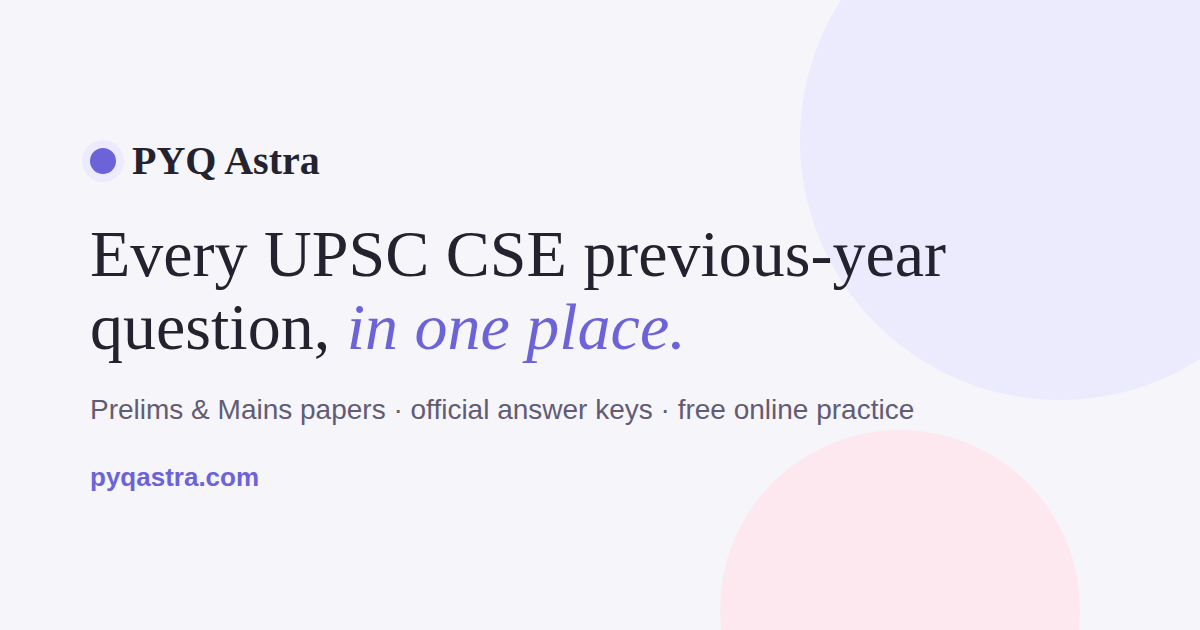
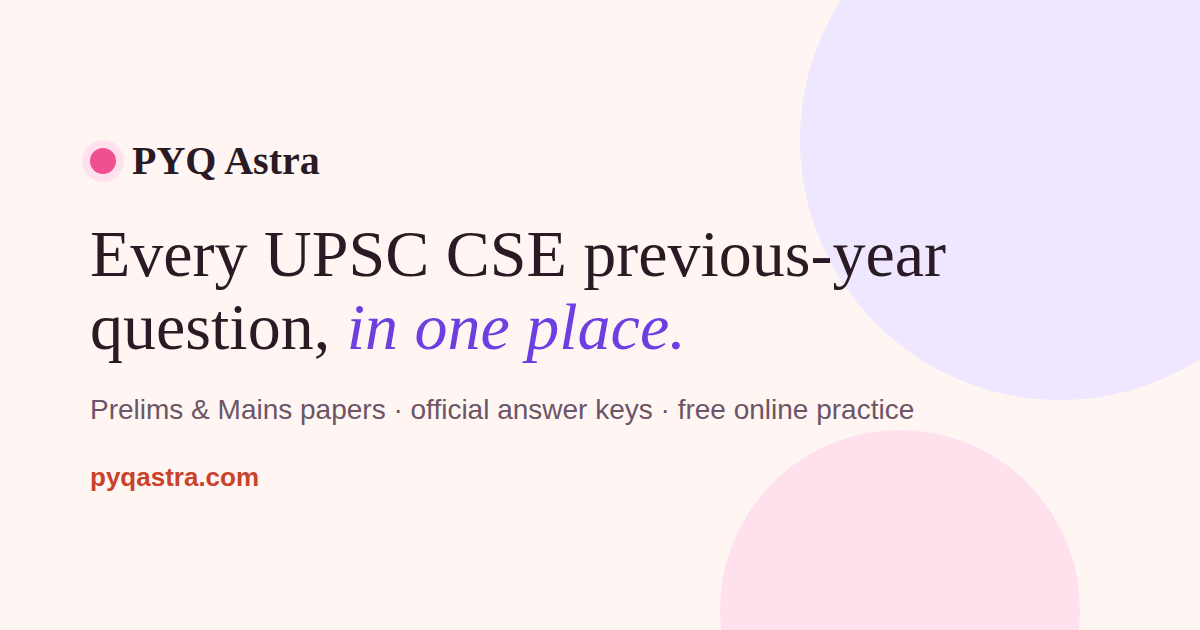
Add files via upload

Changed region(s): [[0.2775, 0.4825, 0.555, 0.573], [0.0617, 0.7238, 0.2158, 0.7841], [0.0617, 0.2413, 0.1233, 0.2714]]

diff --git a/theme.css b/theme.css
@@ -1,0 +1,115 @@
+/* PYQ Astra colour theme E — "Sunrise × Candy, coral-led"
+   Loaded after each page's own styles, so it only re-colours; layout is untouched.
+   Coral leads, violet is second, pink and amber are accents. */
+
+:root, :root[data-theme="light"]{
+  --ink:#FFF6F3; --surface:#FFFFFF; --surface-2:#FDEBE6; --rule:#F4DDD8;
+  --text:#2A1A24; --muted:#6B5566; --faint:#86707F;
+  --marigold:#C9432B; --on-accent:#FFFFFF; --marigold-soft:#FFE3DA;
+  --violet:#6D3FE0; --violet-soft:#EEE7FF;
+  --pink:#C22E6C; --pink-soft:#FFE1EE;
+  --amber:#9A5B00; --amber-soft:#FFF0D4; --amber-line:#F0A030;
+  --mint:#1E8A62; --mint-soft:#DDF3E8;
+  --peach:#F0A030; --glass:rgba(255,246,243,.88);
+  --accent-glow:rgba(201,67,43,.28);
+  --shadow:0 1px 2px rgba(42,26,36,.04), 0 10px 30px -18px rgba(120,40,30,.22);
+  color-scheme:light;
+}
+:root[data-theme="dark"]{
+  --ink:#1A1418; --surface:#251C22; --surface-2:#30252C; --rule:#3E3038;
+  --text:#F6ECEF; --muted:#C3B0BA; --faint:#97828D;
+  --marigold:#FF8A6E; --on-accent:#1A1418; --marigold-soft:rgba(255,138,110,.14);
+  --violet:#B79CFF; --violet-soft:rgba(183,156,255,.14);
+  --pink:#FF8FB8; --pink-soft:rgba(255,143,184,.13);
+  --amber:#FFC46B; --amber-soft:rgba(255,196,107,.13); --amber-line:#FFC46B;
+  --mint:#7FDDB5; --mint-soft:rgba(127,221,181,.12);
+  --peach:#FFC46B; --glass:rgba(26,20,24,.88);
+  --accent-glow:rgba(255,138,110,.22);
+  --shadow:0 1px 2px rgba(0,0,0,.3), 0 12px 30px -18px rgba(0,0,0,.6);
+  color-scheme:dark;
+}
+
+/* brand + headline */
+.brand-dot{ background:var(--pink) !important; box-shadow:0 0 0 4px var(--pink-soft) !important; }
+.display em{ color:var(--violet); }
+
+/* home page */
+.hero .kicker{ color:var(--pink); background:var(--pink-soft); }
+.cta .btn:not(.primary){ background:var(--violet-soft); color:var(--violet); border-color:transparent; }
+.cta .btn:not(.primary):hover{ border-color:var(--violet); color:var(--violet); }
+.features .feat{ border-top:4px solid var(--marigold); }
+.features .feat:nth-child(4n+2){ border-top-color:var(--violet); }
+.features .feat:nth-child(4n+3){ border-top-color:var(--pink); }
+.features .feat:nth-child(4n+4){ border-top-color:var(--amber-line); }
+.features .feat:hover{ border-color:var(--rule); transform:translateY(-3px); }
+.c1{ background:var(--marigold-soft) !important; color:var(--marigold) !important; }
+.c2{ background:var(--violet-soft) !important; color:var(--violet) !important; }
+.c3{ background:var(--pink-soft) !important; color:var(--pink) !important; }
+.c4{ background:var(--amber-soft) !important; color:var(--amber) !important; }
+.c5{ background:var(--violet-soft) !important; color:var(--violet) !important; }
+.c6{ background:var(--marigold-soft) !important; color:var(--marigold) !important; }
+
+/* Practice: subject cards take turns in the four colours */
+.subj{ border-top:3px solid var(--marigold); }
+.subj:nth-child(4n+2){ border-top-color:var(--violet); } .subj:nth-child(4n+2) .sc{ color:var(--violet); }
+.subj:nth-child(4n+3){ border-top-color:var(--pink); }   .subj:nth-child(4n+3) .sc{ color:var(--pink); }
+.subj:nth-child(4n+4){ border-top-color:var(--amber-line); } .subj:nth-child(4n+4) .sc{ color:var(--amber); }
+.subj.on{ background:var(--marigold) !important; border-color:var(--marigold) !important; }
+.subj.on .sc{ color:var(--on-accent) !important; }
+
+/* Mains: one colour per GS paper */
+.pcard{ border-top:4px solid var(--marigold); }
+.pcard:nth-child(2){ border-top-color:var(--violet); } .pcard:nth-child(2) .pname{ color:var(--violet); }
+.pcard:nth-child(3){ border-top-color:var(--pink); }   .pcard:nth-child(3) .pname{ color:var(--pink); }
+.pcard:nth-child(4){ border-top-color:var(--amber-line); } .pcard:nth-child(4) .pname{ color:var(--amber); }
+.sv-topic{ background:var(--violet-soft) !important; color:var(--violet) !important; }
+.sv-no{ color:var(--marigold) !important; }
+.sv-dl{ background:var(--marigold) !important; }
+.pcard.on:nth-child(2){ background:var(--violet); border-color:var(--violet); }
+.pcard.on:nth-child(3){ background:var(--pink); border-color:var(--pink); }
+.pcard.on:nth-child(4){ background:var(--amber); border-color:var(--amber); }
+.pcard.on .pname{ color:var(--on-accent) !important; }
+
+/* ---------- more colour on every page ---------- */
+/* Home: each feature card's link and the "Jump to a paper" tiles follow the card's colour */
+.features .feat:nth-child(4n+2) .go{ color:var(--violet); }
+.features .feat:nth-child(4n+3) .go{ color:var(--pink); }
+.features .feat:nth-child(4n+4) .go{ color:var(--amber); }
+.qk{ border-top:3px solid var(--marigold); }
+.qk:nth-child(4n+2){ border-top-color:var(--violet); } .qk:nth-child(4n+2) b{ color:var(--violet); }
+.qk:nth-child(4n+3){ border-top-color:var(--pink); }   .qk:nth-child(4n+3) b{ color:var(--pink); }
+.qk:nth-child(4n+4){ border-top-color:var(--amber-line); } .qk:nth-child(4n+4) b{ color:var(--amber); }
+.qk:hover{ border-color:var(--rule); transform:translateY(-2px); }
+
+/* Prelims: CSAT tab in violet, answer key in violet, "practise online" in pink, bars take turns */
+#tabs button:nth-child(2).on{ background:var(--violet) !important; color:var(--on-accent) !important; }
+.dl.key{ color:var(--violet); border-color:var(--violet); }
+.dl.key:hover{ background:var(--violet); color:var(--on-accent); }
+.dl.go{ background:var(--pink-soft); border-color:transparent; color:var(--pink); }
+.dl.go:hover{ border-color:var(--pink); color:var(--pink); }
+.pb:nth-child(4n+2) .t i{ background:var(--marigold) !important; }
+.pb:nth-child(4n+3) .t i{ background:var(--violet) !important; }
+.pb:nth-child(4n+4) .t i{ background:var(--pink) !important; }
+.pb:nth-child(4n+5) .t i{ background:var(--amber-line) !important; }
+.pb:nth-child(4n+2) b{ color:var(--marigold); } .pb:nth-child(4n+3) b{ color:var(--violet); }
+.pb:nth-child(4n+4) b{ color:var(--pink); }     .pb:nth-child(4n+5) b{ color:var(--amber); }
+
+/* Practice: year and topic chips take turns in the four colours; stat tiles tinted */
+.chip-t.on:nth-child(4n+2){ background:var(--violet); border-color:var(--violet); }
+.chip-t.on:nth-child(4n+3){ background:var(--pink); border-color:var(--pink); }
+.chip-t.on:nth-child(4n+4){ background:var(--amber); border-color:var(--amber); }
+.stat:nth-child(1){ background:var(--marigold-soft); } .stat:nth-child(1) b{ color:var(--marigold); }
+.stat:nth-child(2){ background:var(--violet-soft); }   .stat:nth-child(2) b{ color:var(--violet); }
+.stat:nth-child(3){ background:var(--pink-soft); }     .stat:nth-child(3) b{ color:var(--pink); }
+/* test view: subject tag coral, topic tag violet */
+.tag{ background:var(--marigold-soft); color:var(--marigold); font-weight:600; }
+.tag + .tag{ background:var(--violet-soft); color:var(--violet); }
+
+/* Privacy and 404 */
+.doc h2{ color:var(--violet); }
+.doc h2:nth-of-type(3n+2){ color:var(--marigold); }
+.doc h2:nth-of-type(3n+3){ color:var(--pink); }
+.nf .code{ color:var(--marigold); }
+.nf .btns a:nth-child(2){ background:var(--violet-soft); color:var(--violet); border-color:transparent; }
+.nf .btns a:nth-child(3){ background:var(--pink-soft); color:var(--pink); border-color:transparent; }
+.nf .btns a:nth-child(4){ background:var(--amber-soft); color:var(--amber); border-color:transparent; }

diff --git a/practice.html b/practice.html
@@ -7,7 +7,7 @@
 <link rel="canonical" href="https://pyqastra.com/practice.html">
 <link rel="icon" href="favicon.svg" type="image/svg+xml">
 <link rel="apple-touch-icon" href="apple-touch-icon.png">
-<meta name="theme-color" content="#6C63D9">
+<meta name="theme-color" content="#C9432B">
 <meta property="og:type" content="website">
 <meta property="og:site_name" content="PYQ Astra">
 <meta property="og:title" content="Solve UPSC Prelims PYQs online — PYQ Astra">
@@ -314,6 +314,7 @@ kbd{ font:600 11px var(--body); border:1px solid var(--rule); border-bottom-widt
   .stem{ font-size:16px; } .opt{ font-size:15px; }
 }
 </style>
+<link rel="stylesheet" href="theme.css">
 </head>
 <body>
 <header class="site-head"><div class="wrap head-row">
@@ -18984,7 +18985,7 @@ function renderTopics(){
   el.querySelectorAll('[data-t]').forEach(b => b.onclick = () => { const t=b.dataset.t; S.topics.has(t)?S.topics.delete(t):S.topics.add(t); S.limit=25; renderTopics(); renderAnalysis(); renderList(); });
 }
 
-const RAMP=[[253,232,214],[249,201,196],[228,181,224],[183,166,236],[127,116,214],[79,68,158]];   // pastel: peach → rose → orchid → lavender → periwinkle → indigo (fewer → more)
+const RAMP=[[255,240,212],[255,208,192],[247,154,126],[217,80,95],[160,79,216],[85,48,196]];   // theme E: cream → peach → coral → rose → violet → deep violet (fewer → more)
 function rgb(n,max){ const f=(max<=1?1:Math.sqrt((n-1)/(max-1)))*(RAMP.length-1), i=Math.min(RAMP.length-2,Math.floor(f)), t=f-i; return RAMP[i].map((c,j)=>Math.round(c+(RAMP[i+1][j]-c)*t)); }
 const ink = c => (0.299*c[0]+0.587*c[1]+0.114*c[2])>150 ? '#2A2638' : '#fff';
 

diff --git a/mains.html b/mains.html
@@ -7,7 +7,7 @@
 <link rel="canonical" href="https://pyqastra.com/mains.html">
 <link rel="icon" href="favicon.svg" type="image/svg+xml">
 <link rel="apple-touch-icon" href="apple-touch-icon.png">
-<meta name="theme-color" content="#6C63D9">
+<meta name="theme-color" content="#C9432B">
 <meta property="og:type" content="website">
 <meta property="og:site_name" content="PYQ Astra">
 <meta property="og:title" content="UPSC Mains previous year questions by topic — PYQ Astra">
@@ -370,6 +370,7 @@ kbd{ font:600 11px var(--body); border:1px solid var(--rule); border-bottom-widt
 .sv-act{ white-space:nowrap; }
 @media (max-width:640px){ .sv-yh, .sv-item{ padding-left:14px; padding-right:14px; } .sv-item{ grid-template-columns:34px minmax(0,1fr); } .sv-row-acts{ flex-wrap:wrap; } }
 </style>
+<link rel="stylesheet" href="theme.css">
 </head>
 <body>
 <header class="site-head"><div class="wrap head-row">
@@ -1806,7 +1807,7 @@ function selectPaper(k){
   renderAll(true);
 }
 
-const RAMP=[[253,232,214],[249,201,196],[228,181,224],[183,166,236],[127,116,214],[79,68,158]];   // pastel: peach → rose → orchid → lavender → periwinkle → indigo (fewer → more)   // fewer = light cream → yellow → orange → red → plum = more
+const RAMP=[[255,240,212],[255,208,192],[247,154,126],[217,80,95],[160,79,216],[85,48,196]];   // theme E: cream → peach → coral → rose → violet → deep violet (fewer → more)
 function heatRGB(n,max){
   const f=(max<=1?1:Math.sqrt((n-1)/(max-1)))*(RAMP.length-1), i=Math.min(RAMP.length-2,Math.floor(f)), t=f-i;
   return RAMP[i].map((c,j)=>Math.round(c+(RAMP[i+1][j]-c)*t));

diff --git a/index.html b/index.html
@@ -7,7 +7,7 @@
 <link rel="canonical" href="https://pyqastra.com/">
 <link rel="icon" href="favicon.svg" type="image/svg+xml">
 <link rel="apple-touch-icon" href="apple-touch-icon.png">
-<meta name="theme-color" content="#6C63D9">
+<meta name="theme-color" content="#C9432B">
 <meta property="og:type" content="website">
 <meta property="og:site_name" content="PYQ Astra">
 <meta property="og:title" content="PYQ Astra — UPSC CSE previous year papers, answer keys and practice">
@@ -155,6 +155,7 @@ html{ scroll-padding-top:96px; }
 @media (max-width:980px){ .features{ grid-template-columns:1fr 1fr; } .quick{ grid-template-columns:repeat(3,1fr); } }
 @media (max-width:620px){ .hero{ padding-top:30px; } .features{ grid-template-columns:1fr; } .quick{ grid-template-columns:1fr 1fr; } .trust{ gap:12px; font-size:13px; } }
 </style>
+<link rel="stylesheet" href="theme.css">
 </head>
 <body>
 <header class="site-head"><div class="wrap head-row">
@@ -164,7 +165,7 @@ html{ scroll-padding-top:96px; }
 <main class="wrap">
   <section class="hero">
     <span class="kicker">UPSC Civil Services Examination · Prelims and Mains</span>
-    <h1 class="display">Every UPSC CSE previous-year question, in one place.</h1>
+    <h1 class="display">Every UPSC CSE previous-year question, <em>in one place.</em></h1>
     <p class="lede" id="heroLede">Download official Mains and Prelims question papers with answer keys, solve Prelims questions with instant marking, and study Mains questions sorted by syllabus topic.</p>
     <div class="cta">
       <a class="btn primary" href="practice.html">Solve Prelims PYQs</a>

diff --git a/privacy.html b/privacy.html
@@ -6,7 +6,7 @@
 <meta name="description" content="How PYQ Astra handles your data, and how to delete it.">
 <link rel="icon" href="favicon.svg" type="image/svg+xml">
 <link rel="apple-touch-icon" href="apple-touch-icon.png">
-<meta name="theme-color" content="#6C63D9">
+<meta name="theme-color" content="#C9432B">
 
 <script>(function(){var t;try{t=localStorage.getItem('pyq-theme')}catch(e){}if(!t)t=matchMedia('(prefers-color-scheme: dark)').matches?'dark':'light';document.documentElement.setAttribute('data-theme',t)})();</script>
 
@@ -162,6 +162,7 @@ html{ scroll-padding-top:96px; }
 .nf .btns a{ padding:10px 18px; border-radius:999px; border:1px solid var(--rule); background:var(--surface); font-weight:600; }
 .nf .btns a.pri{ background:var(--marigold); color:var(--on-accent); border-color:var(--marigold); }
 </style>
+<link rel="stylesheet" href="theme.css">
 </head>
 <body>
 <header class="site-head"><div class="wrap head-row">

diff --git a/404.html b/404.html
@@ -7,7 +7,7 @@
 <meta name="description" content="Page not found.">
 <link rel="icon" href="favicon.svg" type="image/svg+xml">
 <link rel="apple-touch-icon" href="apple-touch-icon.png">
-<meta name="theme-color" content="#6C63D9">
+<meta name="theme-color" content="#C9432B">
 
 <script>(function(){var t;try{t=localStorage.getItem('pyq-theme')}catch(e){}if(!t)t=matchMedia('(prefers-color-scheme: dark)').matches?'dark':'light';document.documentElement.setAttribute('data-theme',t)})();</script>
 
@@ -163,6 +163,7 @@ html{ scroll-padding-top:96px; }
 .nf .btns a{ padding:10px 18px; border-radius:999px; border:1px solid var(--rule); background:var(--surface); font-weight:600; }
 .nf .btns a.pri{ background:var(--marigold); color:var(--on-accent); border-color:var(--marigold); }
 </style>
+<link rel="stylesheet" href="theme.css">
 </head>
 <body>
 <header class="site-head"><div class="wrap head-row">

diff --git a/prelims.html b/prelims.html
@@ -7,7 +7,7 @@
 <link rel="canonical" href="https://pyqastra.com/prelims.html">
 <link rel="icon" href="favicon.svg" type="image/svg+xml">
 <link rel="apple-touch-icon" href="apple-touch-icon.png">
-<meta name="theme-color" content="#6C63D9">
+<meta name="theme-color" content="#C9432B">
 <meta property="og:type" content="website">
 <meta property="og:site_name" content="PYQ Astra">
 <meta property="og:title" content="UPSC Prelims previous year papers and answer keys — PYQ Astra">
@@ -153,6 +153,7 @@ body{ display:flex; flex-direction:column; }
   .pb{ grid-template-columns:minmax(90px,140px) 1fr 26px; font-size:12.5px; }
 }
 </style>
+<link rel="stylesheet" href="theme.css">
 </head>
 <body>
 <header class="site-head"><div class="wrap head-row">
